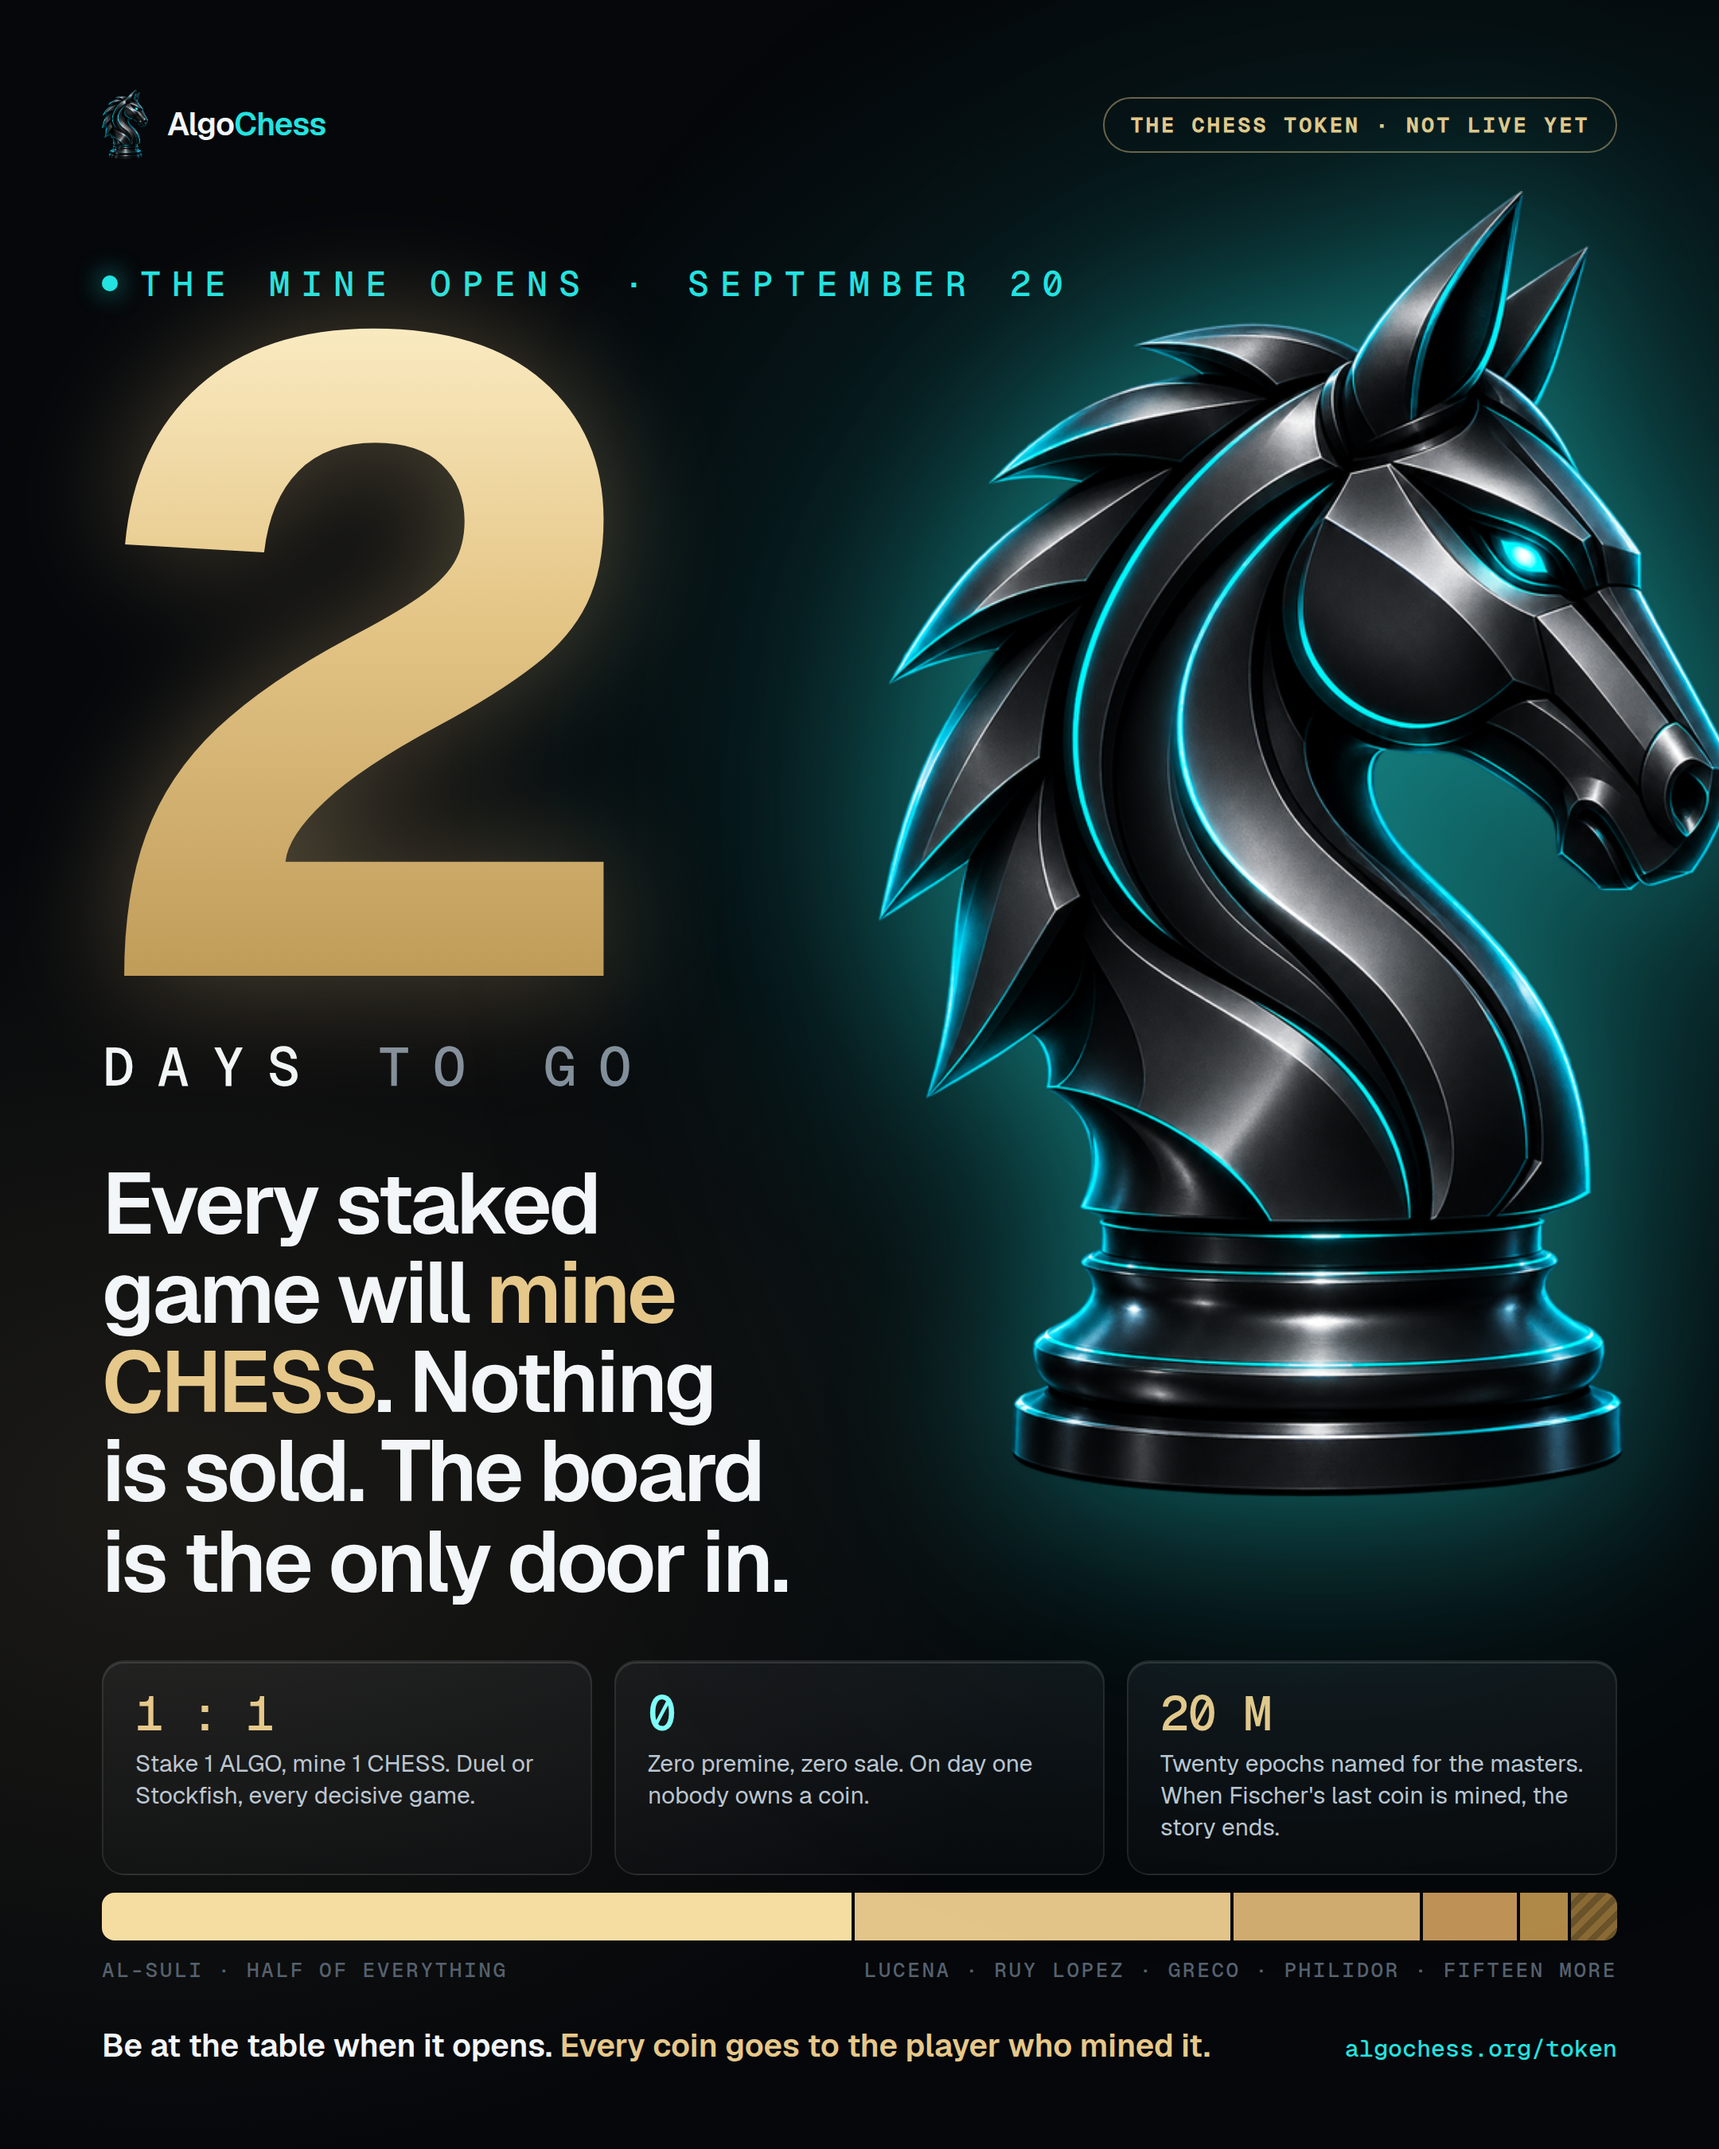
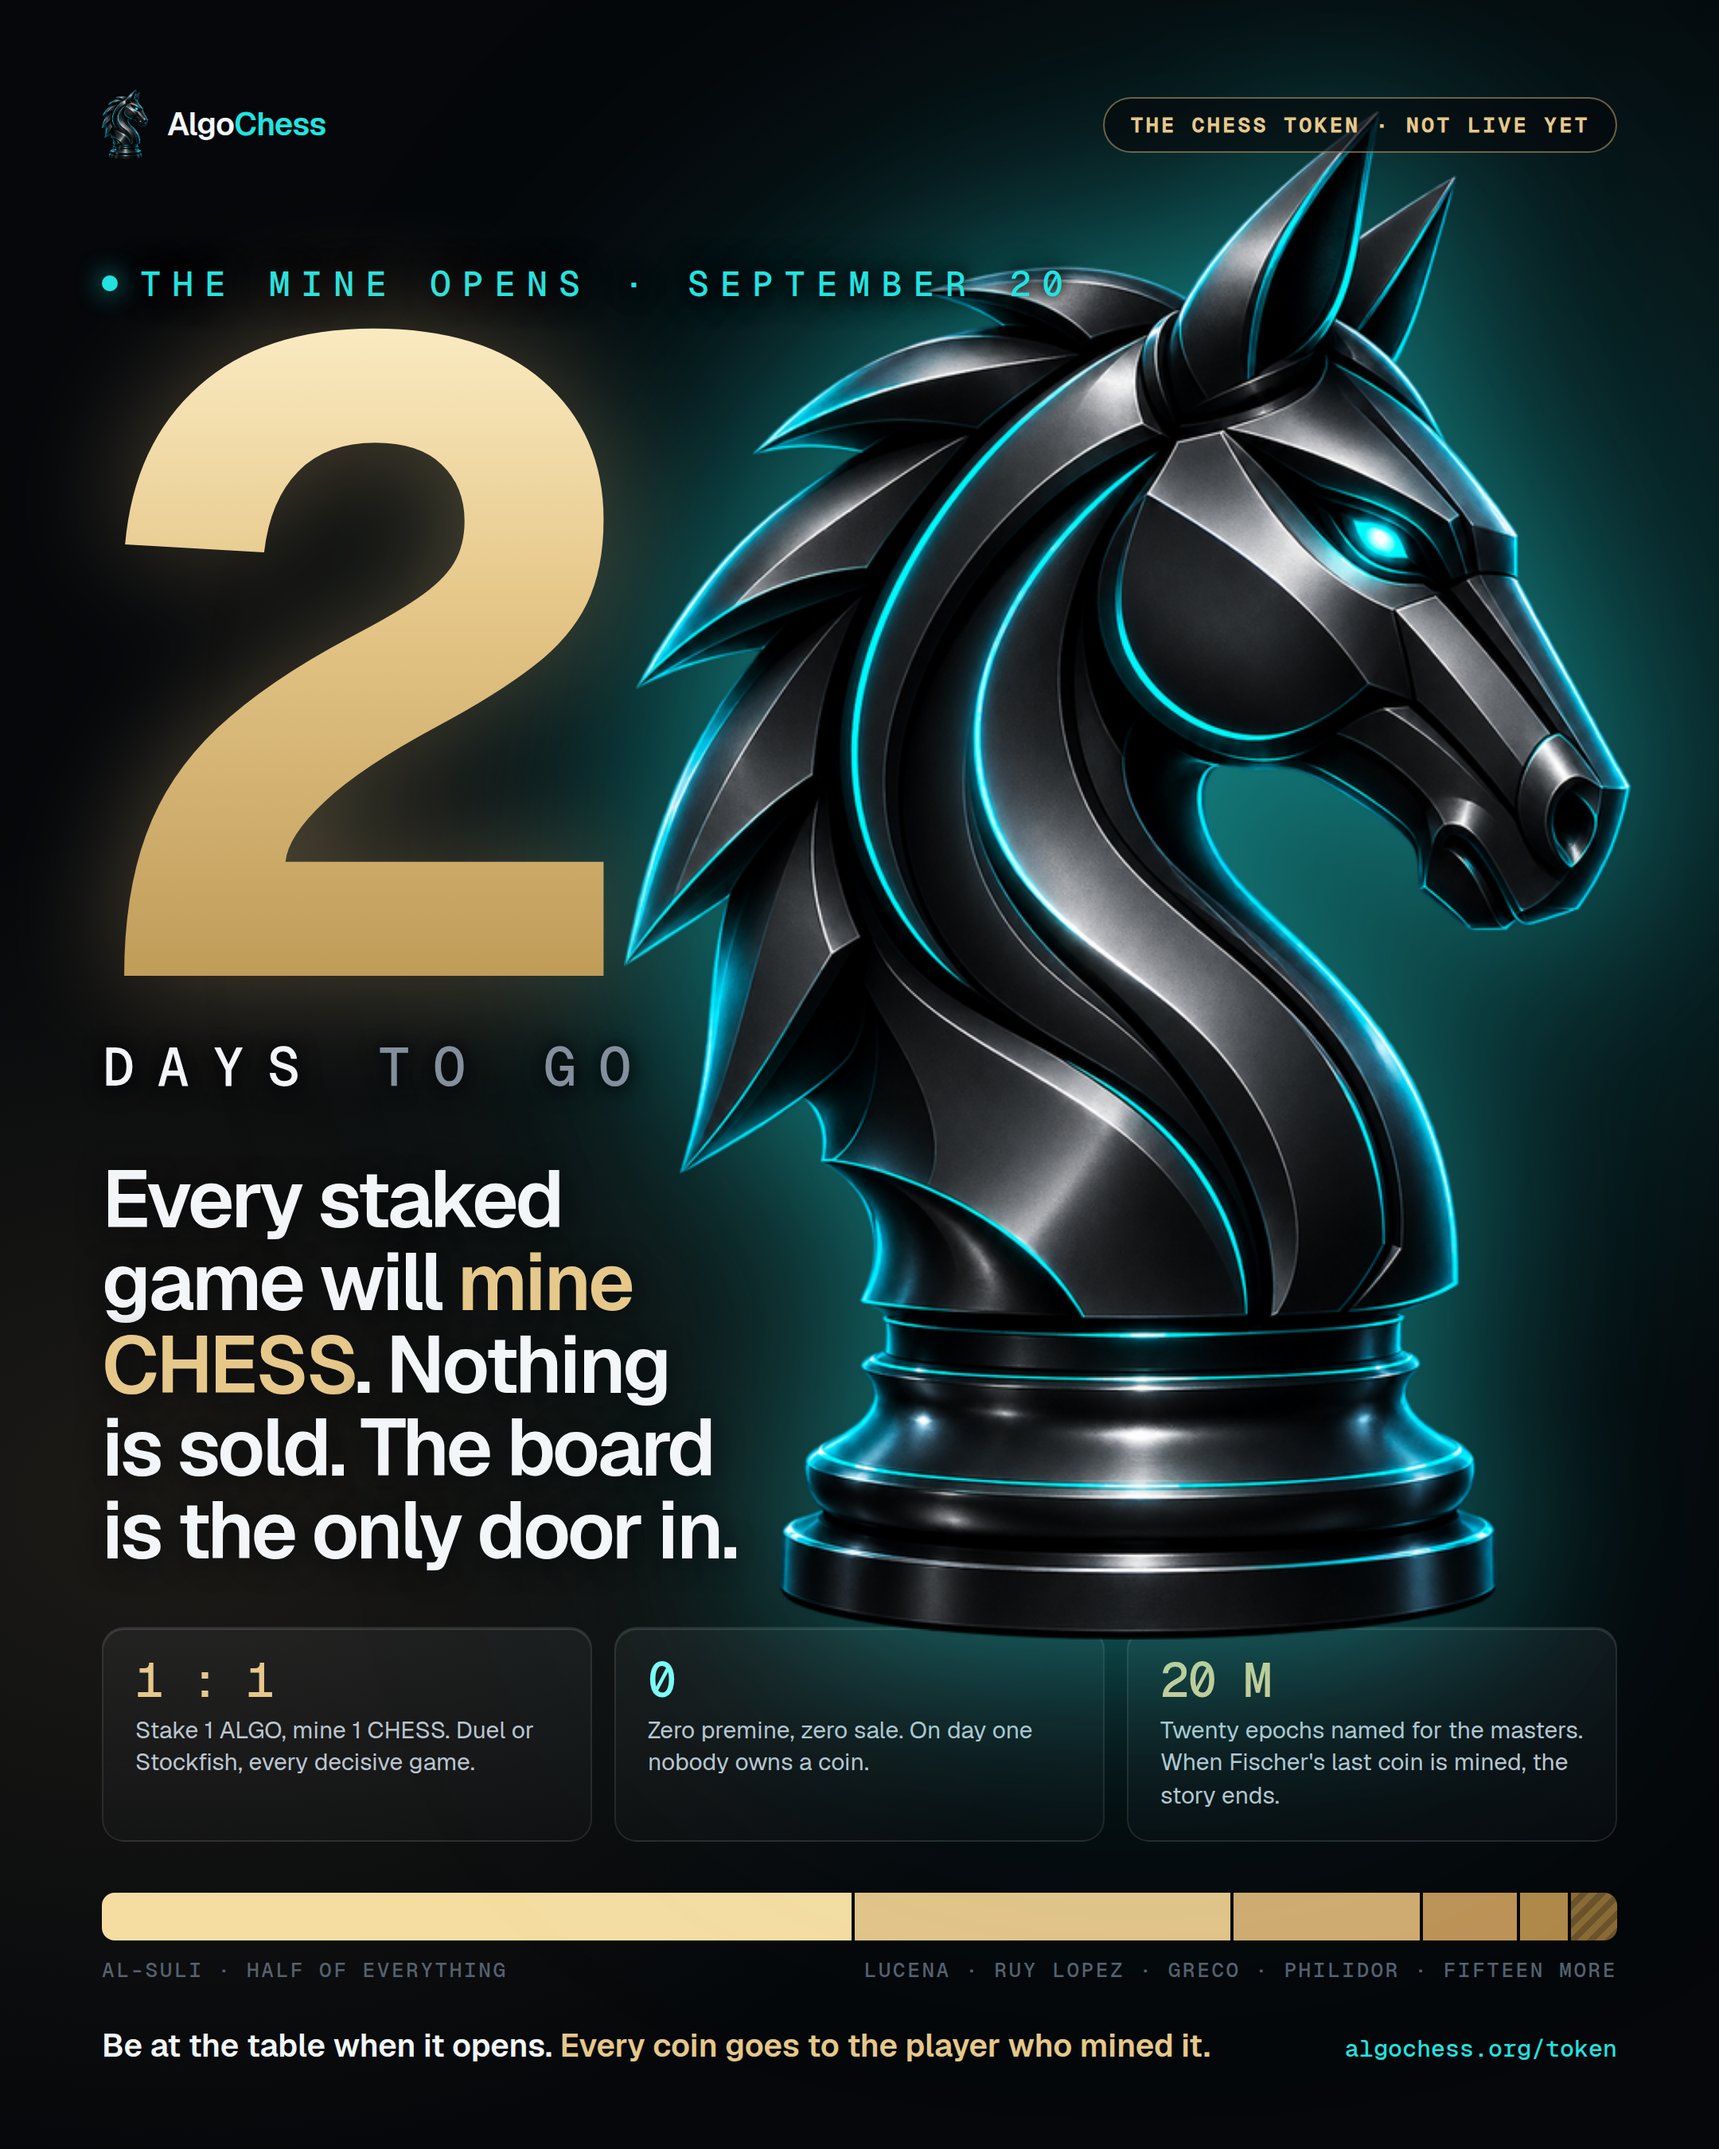
Countdown: the knight crosses the middle
Bigger again, and further in: 820 to 960px, right 55. It is now a
co-hero rather than a decoration at the edge.

Everything that shares its space is positioned so it paints over the
piece, the three lines crossing the mane carry a dark text-shadow, and
the pill has a ground of its own so the ear passes behind it. 1010px was
tried and rejected: it ate the end of DAYS TO GO and the third fact.

Days 7 down to 1 re-rendered.

Claude-Session: https://claude.ai/code/session_011ELKA8WvK7zimmKZuoaQVr

diff --git a/infographics/countdown/make/build.py b/infographics/countdown/make/build.py
@@ -21,19 +21,19 @@ html = f'''<!doctype html><html><head><meta charset="utf-8"><style>
 html, body {{ margin: 0; background: #05070a; }}
 .card {{ position: relative; width: 1080px; height: 1350px; overflow: hidden; box-sizing: border-box; padding: 56px 64px 52px; color: #bcc6d0; font-family: G, system-ui, sans-serif; -webkit-font-smoothing: antialiased; display: flex; flex-direction: column;
   background: radial-gradient(70rem 50rem at 85% 30%, rgba(34,227,224,0.14), transparent 60%), radial-gradient(60rem 44rem at 10% 70%, rgba(230,200,138,0.10), transparent 60%), #05070a; }}
-.brand {{ display: flex; align-items: center; gap: 12px; font-size: 20px; font-weight: 600; letter-spacing: -0.02em; color: #f2f6f8; }}
+.brand {{ position: relative; display: flex; align-items: center; gap: 12px; font-size: 20px; font-weight: 600; letter-spacing: -0.02em; color: #f2f6f8; }}
 .brand img {{ height: 44px; width: auto; }}
 .brand .c {{ color: #22e3e0; }}
-.brand .tag {{ margin-left: auto; font-family: GM, monospace; font-size: 13px; letter-spacing: 0.14em; text-transform: uppercase; color: #e6c88a; border: 1px solid rgba(230,200,138,0.45); border-radius: 999px; padding: 8px 16px; }}
-.knight {{ position: absolute; right: -12px; top: 120px; height: 820px; width: auto; filter: drop-shadow(0 0 60px rgba(34,227,224,0.45)) drop-shadow(0 0 140px rgba(34,227,224,0.18)); }}
-.eyebrow {{ position: relative; margin-top: 64px; font-family: GM, monospace; font-size: 22px; letter-spacing: 0.32em; text-transform: uppercase; color: #22e3e0; display: flex; align-items: center; gap: 14px; }}
+.brand .tag {{ margin-left: auto; font-family: GM, monospace; font-size: 13px; letter-spacing: 0.14em; text-transform: uppercase; color: #e6c88a; border: 1px solid rgba(230,200,138,0.45); border-radius: 999px; padding: 8px 16px; background: rgba(5,7,10,0.62); }}
+.knight {{ position: absolute; right: 55px; top: 70px; height: 960px; width: auto; filter: drop-shadow(0 0 60px rgba(34,227,224,0.45)) drop-shadow(0 0 140px rgba(34,227,224,0.18)); }}
+.eyebrow {{ position: relative; text-shadow: 0 0 8px rgba(5,7,10,1), 0 0 20px rgba(5,7,10,0.95), 0 2px 16px rgba(5,7,10,0.9); margin-top: 64px; font-family: GM, monospace; font-size: 22px; letter-spacing: 0.32em; text-transform: uppercase; color: #22e3e0; display: flex; align-items: center; gap: 14px; }}
 .eyebrow i {{ display: inline-block; width: 10px; height: 10px; border-radius: 999px; background: #22e3e0; box-shadow: 0 0 16px rgba(34,227,224,0.9); }}
 .big {{ position: relative; margin: -30px 0 0 -14px; font-size: 560px; line-height: 0.9; font-weight: 700; letter-spacing: -0.07em; font-variant-numeric: tabular-nums;
   background: linear-gradient(180deg, #fff3cf 0%, #e6c88a 42%, #b8924e 100%); -webkit-background-clip: text; background-clip: text; color: transparent;
   filter: drop-shadow(0 0 40px rgba(230,200,138,0.35)); }}
-.days {{ margin-top: -18px; font-family: GM, monospace; font-size: 34px; letter-spacing: 0.42em; text-transform: uppercase; color: #f2f6f8; }}
+.days {{ position: relative; text-shadow: 0 0 8px rgba(5,7,10,1), 0 2px 14px rgba(5,7,10,0.9); margin-top: -18px; font-family: GM, monospace; font-size: 34px; letter-spacing: 0.42em; text-transform: uppercase; color: #f2f6f8; }}
 .days span {{ color: #838f9c; }}
-h1 {{ position: relative; margin: 36px 0 0; max-width: 500px; font-size: 54px; line-height: 1.04; letter-spacing: -0.035em; font-weight: 600; color: #f2f6f8; text-wrap: balance; }}
+h1 {{ position: relative; text-shadow: 0 2px 18px rgba(5,7,10,0.85); margin: 36px 0 0; max-width: 460px; font-size: 50px; line-height: 1.04; letter-spacing: -0.035em; font-weight: 600; color: #f2f6f8; text-wrap: balance; }}
 h1 .gold {{ color: #e6c88a; }}
 .facts {{ margin-top: 34px; display: flex; gap: 14px; }}
 .fact {{ flex: 1 1 0; border-radius: 14px; border: 1px solid rgba(255,255,255,0.09); background: linear-gradient(180deg, rgba(143,154,164,0.09), rgba(143,154,164,0.03)); box-shadow: inset 0 1px 0 rgba(255,255,255,0.12); padding: 18px 20px; display: flex; flex-direction: column; gap: 6px; }}

diff --git a/infographics/countdown/make/README.md b/infographics/countdown/make/README.md
@@ -17,18 +17,21 @@ fonts and the mark, so the card of any day is rebuilt pixel for pixel.
 - The number of days is the hero: Geist Bold, 560px, letter-spacing
   -0.07em, gold gradient #fff3cf to #e6c88a to #b8924e, a soft gold glow.
   Under it "DAYS TO GO" in mono, tracked 0.42em.
-- The knight (knight-full.png, the whole piece, never a crop) at the right,
-  820px tall, `right: -12px; top: 120px`, with a cyan rim glow. It is the
-  second hero and it may overlap the number, which paints over it.
-  Owner, 2026-09-13: "bring the horse more to the center and get it bigger."
-  It grew from 760px and moved 28px in from the edge; anything much larger
-  ate the date and the headline, which is why the two of them are now
-  `position: relative` (an absolutely positioned image paints ABOVE ordinary
-  text, so the words simply vanished behind it) and the headline keeps its
-  own 500px column clear of the piece.
+- The knight (knight-full.png, the whole piece, never a crop) `right: 55px;
+  top: 70px; height: 960px`, with a cyan rim glow. It is the co-hero, not a
+  decoration at the margin: it crosses the middle of the card and the number
+  paints over it. Owner, 2026-09-13, twice: "bring the horse more to the
+  center and get it bigger", then bigger again. It went 760 to 820 to 960px.
+  THE RULE THAT MAKES THIS WORK: an absolutely positioned image paints ABOVE
+  ordinary text, so every early attempt silently swallowed words rather than
+  pushing them aside. The brand bar, the eyebrow, the number, "DAYS TO GO"
+  and the headline are therefore all `position: relative`, the three lines
+  that cross the mane carry a dark text-shadow, and the pill has a
+  `rgba(5,7,10,0.62)` ground so the ear passes behind it. One size larger
+  (1010px) ate the "GO" of DAYS TO GO and the third fact: 960 is the ceiling.
 - Eyebrow above the number: "The mine opens · September 20", cyan dot.
-- One sentence under the number, in a 500px column at 54px so it never runs
-  under the knight: "Every staked game will mine CHESS.
+- One sentence under the number, in a 460px column at 50px. It overlaps the
+  mane and stays readable on it: "Every staked game will mine CHESS.
   Nothing is sold. The board is the only door in." with "mine CHESS" in gold.
 - Three glass facts: 1 : 1, 0, 20 M. Then the supply strip to scale
   (al-Suli half of everything, the striped sliver for the last fifteen),
